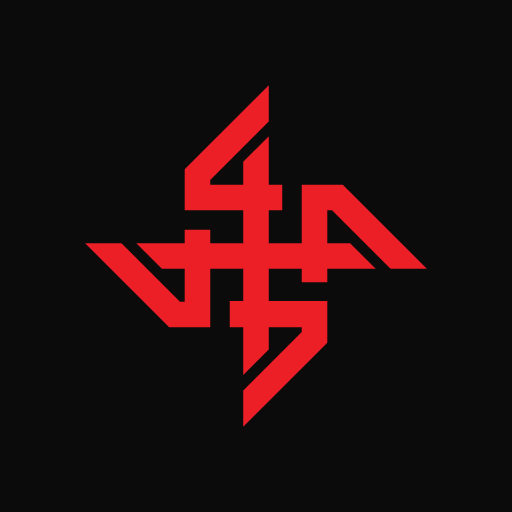
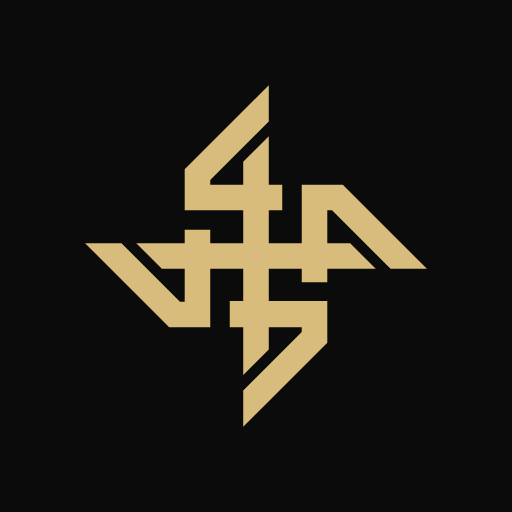
Icône dorée, lore (admin), cache nettoyé, 17 images inutilisées retirées
Claude-Session: https://claude.ai/code/session_01LtkstC13MjDizu5DuuNSSV

Changed region(s): [[0.1562, 0.1562, 0.8438, 0.8438]]

diff --git a/sw.js b/sw.js
@@ -1,6 +1,6 @@
 // Codex du MJ – cache hors ligne. La version change à chaque mise à jour.
-const V="codex-202610311102";
-const FILES=["./", "app.js", "assets/BG_BLACK_1.jpg", "assets/BG_BLACK_12.jpg", "assets/Calluna-Regular.otf", "assets/DEGENESIS-v0.1.ttf", "assets/camp/Benesato-armoiries.jpg", "assets/camp/abacus.jpg", "assets/camp/arrivee-lucatore.jpg", "assets/camp/attila.jpg", "assets/camp/avantposte-helvetique.jpg", "assets/camp/ba-atlantique.jpg", "assets/camp/ba-brest-maison.jpg", "assets/camp/ba-brest-port.jpg", "assets/camp/ba-brest-rue.jpg", "assets/camp/ba-britannia.jpg", "assets/camp/ba-carnac.jpg", "assets/camp/ba-eau-profonde.jpg", "assets/camp/ba-ganaress.jpg", "assets/camp/ba-gantelet.jpg", "assets/camp/ba-jour-ganaress.jpg", "assets/camp/ba-mont-saint-michel.jpg", "assets/camp/ba-morlaix.jpg", "assets/camp/ba-nantes.jpg", "assets/camp/ba-ouessant.jpg", "assets/camp/ba-parel.jpg", "assets/camp/ba-profondeurs.jpg", "assets/camp/ba-raffinerie.jpg", "assets/camp/ba-rennes.jpg", "assets/camp/ba-terre-pecheurs.jpg", "assets/camp/bargeist-vikal.jpg", "assets/camp/camp-romano.jpg", "assets/camp/chrono.jpg", "assets/camp/cloitre.jpg", "assets/camp/ennio-gala.jpg", "assets/camp/foret.jpg", "assets/camp/jdm-comptoir.jpg", "assets/camp/jdm-cour-argent.jpg", "assets/camp/jdm-fauxbourdons.jpg", "assets/camp/jdm-ferrallies.jpg", "assets/camp/jdm-marais.jpg", "assets/camp/jdm-palais-hamza.jpg", "assets/camp/jdm-port-lagagne.jpg", "assets/camp/jdm-route-resistance.jpg", "assets/camp/jdm-saint-chenil.jpg", "assets/camp/jdm-terres-putain.jpg", "assets/camp/jdm-tours.jpg", "assets/camp/lucatore.jpg", "assets/camp/moulin.jpg", "assets/camp/neva.jpg", "assets/camp/papachico-neva.jpg", "assets/camp/scirocco.jpg", "assets/camp/sigle-bargeist.jpg", "assets/camp/t-luz.png", "assets/camp/t-octet.png", "assets/camp/t-pavel.png", "assets/camp/t-vex.png", "assets/camp/tomlenoir.jpg", "assets/camp/vikal.jpg", "assets/dice/d1.png", "assets/dice/d2.png", "assets/dice/d3.png", "assets/dice/d4.png", "assets/dice/d5.png", "assets/dice/d6.png", "assets/fonts/barlow-condensed-latin-500-normal.woff2", "assets/fonts/barlow-condensed-latin-600-normal.woff2", "assets/fonts/barlow-condensed-latin-700-normal.woff2", "assets/logo-clean.svg", "assets/lore/b-amsumo.jpg", "assets/lore/b-discordance.jpg", "assets/lore/b-dormeur.jpg", "assets/lore/b-ganaress.jpg", "assets/lore/b-leviathan.jpg", "assets/lore/b-leviathaniques.jpg", "assets/lore/b-mammouths.jpg", "assets/lore/b-murnakir.jpg", "assets/lore/b-sporuleux.jpg", "assets/lore/b-tsar.jpg", "assets/lore/c-anabaptistes.jpg", "assets/lore/c-anubiens.jpg", "assets/lore/c-apocalyptiques.jpg", "assets/lore/c-blafards.jpg", "assets/lore/c-chroniqueurs.jpg", "assets/lore/c-clanistes.jpg", "assets/lore/c-ferrailleurs.jpg", "assets/lore/c-fleaux.jpg", "assets/lore/c-hellvetiques.jpg", "assets/lore/c-jehammetans.jpg", "assets/lore/c-juges.jpg", "assets/lore/c-neolibyens.jpg", "assets/lore/c-spitaliers.jpg", "assets/lore/k-adriani.jpg", "assets/lore/k-bordenoir.jpg", "assets/lore/k-britoni.jpg", "assets/lore/k-cafards.jpg", "assets/lore/k-corredores.jpg", "assets/lore/k-enemoi.jpg", "assets/lore/k-exaltiens.jpg", "assets/lore/k-flagellants.jpg", "assets/lore/k-garganti.jpg", "assets/lore/k-massai.jpg", "assets/lore/k-matadors.jpg", "assets/lore/k-pandoriens.jpg", "assets/lore/k-phosphorites.jpg", "assets/lore/k-pneumanciens.jpg", "assets/lore/k-resistance.jpg", "assets/lore/k-romano.jpg", "assets/lore/k-shabath.jpg", "assets/lore/k-storski.jpg", "assets/lore/k-stukov.jpg", "assets/lore/k-touloni.jpg", "assets/lore/k-usudi.jpg", "assets/lore/k-voivodules.jpg", "assets/lore/l-bassham.jpg", "assets/lore/l-bayonne.jpg", "assets/lore/l-black-atlantic.jpg", "assets/lore/l-brest.jpg", "assets/lore/l-chapelle-vicarent.jpg", "assets/lore/l-corpse.jpg", "assets/lore/l-entrepots.jpg", "assets/lore/l-lucatore.jpg", "assets/lore/l-mediterranee.jpg", "assets/lore/l-morlaix.jpg", "assets/lore/l-msm.jpg", "assets/lore/l-nantes.jpg", "assets/lore/l-nullpellia.jpg", "assets/lore/l-ouest-rhone.jpg", "assets/lore/l-plateformes.jpg", "assets/lore/l-port-lagagne.jpg", "assets/lore/l-pressoir.jpg", "assets/lore/l-rennes.jpg", "assets/lore/l-rhone.jpg", "assets/lore/l-romano-camp.jpg", "assets/lore/l-saint-brieuc.jpg", "assets/lore/l-saint-chenil.jpg", "assets/lore/l-stukov.jpg", "assets/lore/l-terres-putain.jpg", "assets/lore/l-toulon.jpg", "assets/lore/l-unya.jpg", "assets/lore/m-caire.jpg", "assets/lore/m-eshaton.jpg", "assets/lore/m-fractale.jpg", "assets/lore/m-spores.jpg", "assets/lore/m-ziggurat.jpg", "assets/lore/p-biokinesie-hero.jpg", "assets/lore/p-biokinesie.jpg", "assets/lore/p-dushani-hero.jpg", "assets/lore/p-dushani.jpg", "assets/lore/p-homo.jpg", "assets/lore/p-pheromanciens-hero.jpg", "assets/lore/p-pheromanciens.jpg", "assets/lore/p-pregnostiques-hero.jpg", "assets/lore/p-pregnostiques.jpg", "assets/lore/p-psychokinesie-hero.jpg", "assets/lore/p-psychokinesie.jpg", "assets/lore/p-psychovores.jpg", "assets/lore/p-sepsie.jpg", "assets/lore/r-balkhans.jpg", "assets/lore/r-borca.jpg", "assets/lore/r-cathedrale.jpg", "assets/lore/r-franka.jpg", "assets/lore/r-hellvetica.jpg", "assets/lore/r-hybrispanie.jpg", "assets/lore/r-justitienne.jpg", "assets/lore/r-pollen.jpg", "assets/lore/r-purgare.jpg", "assets/lore/r-tripol.jpg", "assets/lore/s-biokinese.png", "assets/lore/s-dushan.png", "assets/lore/s-pheromancie.png", "assets/lore/s-pregnosticisme.png", "assets/lore/s-psychokinese.png", "assets/lore/x-argyre-hero.jpg", "assets/lore/x-argyre.jpg", "assets/lore/x-aries.jpg", "assets/lore/x-aspera.jpg", "assets/lore/x-chernobog.jpg", "assets/lore/x-gusev.jpg", "assets/lore/x-triglav.jpg", "assets/pnj/ba-ampere.jpg", "assets/pnj/ba-arnika.jpg", "assets/pnj/ba-balor.jpg", "assets/pnj/ba-barringer.jpg", "assets/pnj/ba-bascule.jpg", "assets/pnj/ba-docteur-vega.jpg", "assets/pnj/ba-eris.jpg", "assets/pnj/ba-garlene.jpg", "assets/pnj/ba-helios.jpg", "assets/pnj/ba-ifrit.jpg", "assets/pnj/ba-imbali.jpg", "assets/pnj/ba-malinesse.jpg", "assets/pnj/ba-oppolus.jpg", "assets/pnj/ba-parel.jpg", "assets/pnj/ba-soufiane.jpg", "assets/pnj/ba-vicarent.jpg", "assets/pnj/ets-abacus.jpg", "assets/pnj/ets-barghest.jpg", "assets/pnj/ets-carmino-ferro.jpg", "assets/pnj/ets-ennio-benesato.jpg", "assets/pnj/ets-fernex-le-vigilant.jpg", "assets/pnj/ets-gala-lombardi.jpg", "assets/pnj/ets-leurre-5.jpg", "assets/pnj/ets-lucio-bastardo.jpg", "assets/pnj/ets-neva-l-emissaire-de-fer.jpg", "assets/pnj/ets-papa-chicco.jpg", "assets/pnj/ets-scirocco-le-pecheur.jpg", "assets/pnj/ets-tom-le-noir.jpg", "assets/pnj/ets-verena.jpg", "assets/pnj/ets-vikal.jpg", "assets/pnj/jdm-adonai.jpg", "assets/pnj/jdm-albatre.jpg", "assets/pnj/jdm-arcville.jpg", "assets/pnj/jdm-ayubu-le-limier.jpg", "assets/pnj/jdm-baptiste.jpg", "assets/pnj/jdm-callisto.jpg", "assets/pnj/jdm-crotale.jpg", "assets/pnj/jdm-deich.jpg", "assets/pnj/jdm-eisenhauer.jpg", "assets/pnj/jdm-facteur.jpg", "assets/pnj/jdm-hamza-abubakar-iii.jpg", "assets/pnj/jdm-hexell.jpg", "assets/pnj/jdm-hurlante.jpg", "assets/pnj/jdm-ivar.jpg", "assets/pnj/jdm-leurre-5.jpg", "assets/pnj/jdm-meridien.jpg", "assets/pnj/jdm-mirage.jpg", "assets/pnj/jdm-nephraim.jpg", "assets/pnj/jdm-nestor.jpg", "assets/pnj/jdm-opis-la-grenouille.jpg", "assets/pnj/jdm-orma.jpg", "assets/pnj/jdm-sabata.jpg", "assets/pnj/jdm-verican.jpg", "assets/pnj/jdm-wachsmann.jpg", "assets/pnj/jdm-zoe-morceau.jpg", "assets/pnj/jdm-zohra-consule-de-toulon.jpg", "assets/tarot/0.jpg", "assets/tarot/01.jpg", "assets/tarot/02.jpg", "assets/tarot/03.jpg", "assets/tarot/04.jpg", "assets/tarot/05.jpg", "assets/tarot/06.jpg", "assets/tarot/07.jpg", "assets/tarot/08.jpg", "assets/tarot/09.jpg", "assets/tarot/10.jpg", "assets/tarot/11.jpg", "assets/tarot/12.jpg", "assets/tarot/13.jpg", "assets/tarot/14.jpg", "assets/tarot/15.jpg", "assets/tarot/16.jpg", "assets/tarot/17.jpg", "assets/tarot/18.jpg", "assets/tarot/19.jpg", "assets/tarot/20.jpg", "assets/tarot/21.jpg", "assets/tarot/tarot-dos-01.jpg", "data/bazar.js", "data/campagne.js", "data/gen.js", "data/icons.js", "data/lore.js", "data/oracle.js", "data/potentiels.js", "data/regles.js", "data/survie-regles.js", "data/survie.js", "icons/icon-192.png", "icons/icon-512.png", "icons/maskable-512.png", "index.html", "manifest.webmanifest"];
+const V="codex-202610311234";
+const FILES=["./","app.js","assets/BG_BLACK_1.jpg","assets/BG_BLACK_12.jpg","assets/Calluna-Regular.otf","assets/DEGENESIS-v0.1.ttf","assets/camp/avantposte-helvetique.jpg","assets/camp/ba-atlantique.jpg","assets/camp/ba-brest-maison.jpg","assets/camp/ba-brest-port.jpg","assets/camp/ba-brest-rue.jpg","assets/camp/ba-britannia.jpg","assets/camp/ba-carnac.jpg","assets/camp/ba-eau-profonde.jpg","assets/camp/ba-ganaress.jpg","assets/camp/ba-gantelet.jpg","assets/camp/ba-jour-ganaress.jpg","assets/camp/ba-mont-saint-michel.jpg","assets/camp/ba-morlaix.jpg","assets/camp/ba-nantes.jpg","assets/camp/ba-ouessant.jpg","assets/camp/ba-parel.jpg","assets/camp/ba-profondeurs.jpg","assets/camp/ba-raffinerie.jpg","assets/camp/ba-rennes.jpg","assets/camp/ba-terre-pecheurs.jpg","assets/camp/camp-romano.jpg","assets/camp/cloitre.jpg","assets/camp/foret.jpg","assets/camp/jdm-comptoir.jpg","assets/camp/jdm-cour-argent.jpg","assets/camp/jdm-fauxbourdons.jpg","assets/camp/jdm-ferrallies.jpg","assets/camp/jdm-marais.jpg","assets/camp/jdm-palais-hamza.jpg","assets/camp/jdm-port-lagagne.jpg","assets/camp/jdm-route-resistance.jpg","assets/camp/jdm-saint-chenil.jpg","assets/camp/jdm-terres-putain.jpg","assets/camp/jdm-tours.jpg","assets/camp/lucatore.jpg","assets/camp/moulin.jpg","assets/dice/d1.png","assets/dice/d2.png","assets/dice/d3.png","assets/dice/d4.png","assets/dice/d5.png","assets/dice/d6.png","assets/fonts/barlow-condensed-latin-500-normal.woff2","assets/fonts/barlow-condensed-latin-600-normal.woff2","assets/fonts/barlow-condensed-latin-700-normal.woff2","assets/logo-clean.svg","assets/lore/b-amsumo.jpg","assets/lore/b-discordance.jpg","assets/lore/b-dormeur.jpg","assets/lore/b-ganaress.jpg","assets/lore/b-leviathan.jpg","assets/lore/b-leviathaniques.jpg","assets/lore/b-mammouths.jpg","assets/lore/b-murnakir.jpg","assets/lore/b-sporuleux.jpg","assets/lore/b-tsar.jpg","assets/lore/c-anabaptistes.jpg","assets/lore/c-anubiens.jpg","assets/lore/c-apocalyptiques.jpg","assets/lore/c-blafards.jpg","assets/lore/c-chroniqueurs.jpg","assets/lore/c-clanistes.jpg","assets/lore/c-ferrailleurs.jpg","assets/lore/c-fleaux.jpg","assets/lore/c-hellvetiques.jpg","assets/lore/c-jehammetans.jpg","assets/lore/c-juges.jpg","assets/lore/c-neolibyens.jpg","assets/lore/c-spitaliers.jpg","assets/lore/k-adriani.jpg","assets/lore/k-bordenoir.jpg","assets/lore/k-britoni.jpg","assets/lore/k-cafards.jpg","assets/lore/k-corredores.jpg","assets/lore/k-enemoi.jpg","assets/lore/k-exaltiens.jpg","assets/lore/k-flagellants.jpg","assets/lore/k-garganti.jpg","assets/lore/k-massai.jpg","assets/lore/k-matadors.jpg","assets/lore/k-pandoriens.jpg","assets/lore/k-phosphorites.jpg","assets/lore/k-pneumanciens.jpg","assets/lore/k-resistance.jpg","assets/lore/k-romano.jpg","assets/lore/k-shabath.jpg","assets/lore/k-storski.jpg","assets/lore/k-stukov.jpg","assets/lore/k-touloni.jpg","assets/lore/k-usudi.jpg","assets/lore/k-voivodules.jpg","assets/lore/l-bassham.jpg","assets/lore/l-bayonne.jpg","assets/lore/l-black-atlantic.jpg","assets/lore/l-brest.jpg","assets/lore/l-chapelle-vicarent.jpg","assets/lore/l-corpse.jpg","assets/lore/l-entrepots.jpg","assets/lore/l-lucatore.jpg","assets/lore/l-mediterranee.jpg","assets/lore/l-morlaix.jpg","assets/lore/l-msm.jpg","assets/lore/l-nantes.jpg","assets/lore/l-nullpellia.jpg","assets/lore/l-ouest-rhone.jpg","assets/lore/l-plateformes.jpg","assets/lore/l-port-lagagne.jpg","assets/lore/l-pressoir.jpg","assets/lore/l-rennes.jpg","assets/lore/l-rhone.jpg","assets/lore/l-romano-camp.jpg","assets/lore/l-saint-brieuc.jpg","assets/lore/l-saint-chenil.jpg","assets/lore/l-stukov.jpg","assets/lore/l-terres-putain.jpg","assets/lore/l-toulon.jpg","assets/lore/l-unya.jpg","assets/lore/m-caire.jpg","assets/lore/m-eshaton.jpg","assets/lore/m-fractale.jpg","assets/lore/m-spores.jpg","assets/lore/m-ziggurat.jpg","assets/lore/p-biokinesie-hero.jpg","assets/lore/p-biokinesie.jpg","assets/lore/p-dushani-hero.jpg","assets/lore/p-dushani.jpg","assets/lore/p-homo.jpg","assets/lore/p-pheromanciens-hero.jpg","assets/lore/p-pheromanciens.jpg","assets/lore/p-pregnostiques-hero.jpg","assets/lore/p-pregnostiques.jpg","assets/lore/p-psychokinesie-hero.jpg","assets/lore/p-psychokinesie.jpg","assets/lore/p-psychovores.jpg","assets/lore/p-sepsie.jpg","assets/lore/r-balkhans.jpg","assets/lore/r-borca.jpg","assets/lore/r-cathedrale.jpg","assets/lore/r-franka.jpg","assets/lore/r-hellvetica.jpg","assets/lore/r-hybrispanie.jpg","assets/lore/r-justitienne.jpg","assets/lore/r-pollen.jpg","assets/lore/r-purgare.jpg","assets/lore/r-tripol.jpg","assets/lore/s-biokinese.png","assets/lore/s-dushan.png","assets/lore/s-pheromancie.png","assets/lore/s-pregnosticisme.png","assets/lore/s-psychokinese.png","assets/lore/x-argyre-hero.jpg","assets/lore/x-argyre.jpg","assets/lore/x-aries.jpg","assets/lore/x-aspera.jpg","assets/lore/x-chernobog.jpg","assets/lore/x-gusev.jpg","assets/lore/x-triglav.jpg","assets/pnj/ba-ampere.jpg","assets/pnj/ba-arnika.jpg","assets/pnj/ba-balor.jpg","assets/pnj/ba-barringer.jpg","assets/pnj/ba-bascule.jpg","assets/pnj/ba-docteur-vega.jpg","assets/pnj/ba-eris.jpg","assets/pnj/ba-garlene.jpg","assets/pnj/ba-helios.jpg","assets/pnj/ba-ifrit.jpg","assets/pnj/ba-imbali.jpg","assets/pnj/ba-malinesse.jpg","assets/pnj/ba-oppolus.jpg","assets/pnj/ba-parel.jpg","assets/pnj/ba-soufiane.jpg","assets/pnj/ba-vicarent.jpg","assets/pnj/ets-abacus.jpg","assets/pnj/ets-barghest.jpg","assets/pnj/ets-carmino-ferro.jpg","assets/pnj/ets-ennio-benesato.jpg","assets/pnj/ets-fernex-le-vigilant.jpg","assets/pnj/ets-gala-lombardi.jpg","assets/pnj/ets-leurre-5.jpg","assets/pnj/ets-lucio-bastardo.jpg","assets/pnj/ets-neva-l-emissaire-de-fer.jpg","assets/pnj/ets-papa-chicco.jpg","assets/pnj/ets-scirocco-le-pecheur.jpg","assets/pnj/ets-tom-le-noir.jpg","assets/pnj/ets-verena.jpg","assets/pnj/ets-vikal.jpg","assets/pnj/jdm-adonai.jpg","assets/pnj/jdm-albatre.jpg","assets/pnj/jdm-arcville.jpg","assets/pnj/jdm-ayubu-le-limier.jpg","assets/pnj/jdm-baptiste.jpg","assets/pnj/jdm-callisto.jpg","assets/pnj/jdm-crotale.jpg","assets/pnj/jdm-deich.jpg","assets/pnj/jdm-eisenhauer.jpg","assets/pnj/jdm-facteur.jpg","assets/pnj/jdm-hamza-abubakar-iii.jpg","assets/pnj/jdm-hexell.jpg","assets/pnj/jdm-hurlante.jpg","assets/pnj/jdm-ivar.jpg","assets/pnj/jdm-leurre-5.jpg","assets/pnj/jdm-meridien.jpg","assets/pnj/jdm-mirage.jpg","assets/pnj/jdm-nephraim.jpg","assets/pnj/jdm-nestor.jpg","assets/pnj/jdm-opis-la-grenouille.jpg","assets/pnj/jdm-orma.jpg","assets/pnj/jdm-sabata.jpg","assets/pnj/jdm-verican.jpg","assets/pnj/jdm-wachsmann.jpg","assets/pnj/jdm-zoe-morceau.jpg","assets/pnj/jdm-zohra-consule-de-toulon.jpg","assets/tarot/0.jpg","assets/tarot/01.jpg","assets/tarot/02.jpg","assets/tarot/03.jpg","assets/tarot/04.jpg","assets/tarot/05.jpg","assets/tarot/06.jpg","assets/tarot/07.jpg","assets/tarot/08.jpg","assets/tarot/09.jpg","assets/tarot/10.jpg","assets/tarot/11.jpg","assets/tarot/12.jpg","assets/tarot/13.jpg","assets/tarot/14.jpg","assets/tarot/15.jpg","assets/tarot/16.jpg","assets/tarot/17.jpg","assets/tarot/18.jpg","assets/tarot/19.jpg","assets/tarot/20.jpg","assets/tarot/21.jpg","assets/tarot/tarot-dos-01.jpg","data/bazar.js","data/campagne.js","data/gen.js","data/icons.js","data/lore.js","data/oracle.js","data/potentiels.js","data/regles.js","data/survie-regles.js","data/survie.js","icons/icon-192.png","icons/icon-512.png","icons/maskable-512.png","index.html","manifest.webmanifest"];
 self.addEventListener("install",e=>{e.waitUntil(caches.open(V).then(c=>c.addAll(FILES)).then(()=>self.skipWaiting()))});
 self.addEventListener("activate",e=>{e.waitUntil(caches.keys().then(ks=>Promise.all(ks.filter(k=>k.startsWith("codex-")&&k!==V).map(k=>caches.delete(k)))).then(()=>self.clients.claim()))});
 self.addEventListener("fetch",e=>{if(e.request.method!=="GET")return;

diff --git a/data/lore.js b/data/lore.js
@@ -551,9 +551,8 @@ tabs:[
  {t:"La région en 2596", img:"assets/lore/l-rhone.jpg", ref:"JdM", h:`
 <p>Les Néolibyens sont les seigneurs des villes côtières : la Banque du Commerce y vend chaque année les concessions. La <b>Résistance</b> tient l'arrière-pays, les <b>Spitaliers</b> font de Montpellier leur siège régional, et tous combattent les <b>Phéromanciens</b> des marais du Rhône.</p>
 <p>Les Chroniqueurs, chassés après l'échec de leurs Ferrailleurs dans les marais, regardent Toulon d'un très mauvais œil. Les Anabaptistes sont partis : le <b>Grand Exode</b> de 2577 les a menés en Briton.</p>`},
- {t:"Les marais du Rhône", img:"assets/lore/l-rhone.jpg", ref:"JdM", h:`
-<p>Un monde de roseaux, de canaux et d'épaves, plein d'artefacts : on parle de <b>veines de ferraille</b> intactes et de cités englouties. Les Spitaliers classent les marais de I à V selon le danger. Les faux-bourdons y sont innombrables.</p>
-<p>Les <b>champs de spores-mères</b>, le <b>champ de Jaquiera</b>, la <b>Cité des Rayons</b>, les <b>Conduits de Machiawen</b>, la <b>Confluence de Nistrelle</b>, l'<b>hôpital de campagne Mercure</b>… Les <b>Anubiens</b> y entrent seuls, avec des « sceptres-clefs », dans des installations cachées des Anciens.</p>`},
+ {t:"Les marais du Rhône", img:"assets/lore/l-rhone.jpg", ref:"JdM", h:`<p>Un monde de roseaux, de canaux et d'épaves, plein d'artefacts : on parle de <b>veines de ferraille</b> intactes et de cités englouties. Les Spitaliers classent les marais de I à V selon le danger. Les faux-bourdons y sont innombrables.</p>
+<p>Les <b>champs de spores-mères</b>, le <b>champ de Jaquiera</b>, la <b>Cité des Rayons</b>, les <b>Conduits de Machiawen</b>, la <b>Confluence de Nistrelle</b>…</p>`},
  {t:"Murnakir et la trêve", img:"assets/lore/b-murnakir.jpg", ref:"JdM p.71-72", h:`
 <p>Le Phéromancien <b>Murnakir</b> a mené des centaines de Léperos aux flèches enduites de ses sécrétions : la moindre égratignure se nécrose. Il a écrasé l'expédition <b>Wachsmann-Lacroix</b>.</p>
 <p>Hamza fit venir son demi-frère, l'Anubien <b>Nephraïm</b>, de Zillah : « seuls les dieux peuvent soumettre le Phéromancien ». Nephraïm négocia la paix ; les marais du nord sont devenus la frontière. Les <b>totems</b> marquent les royaumes : Machiawen, Iomèdes, Murnakir…</p>`},
